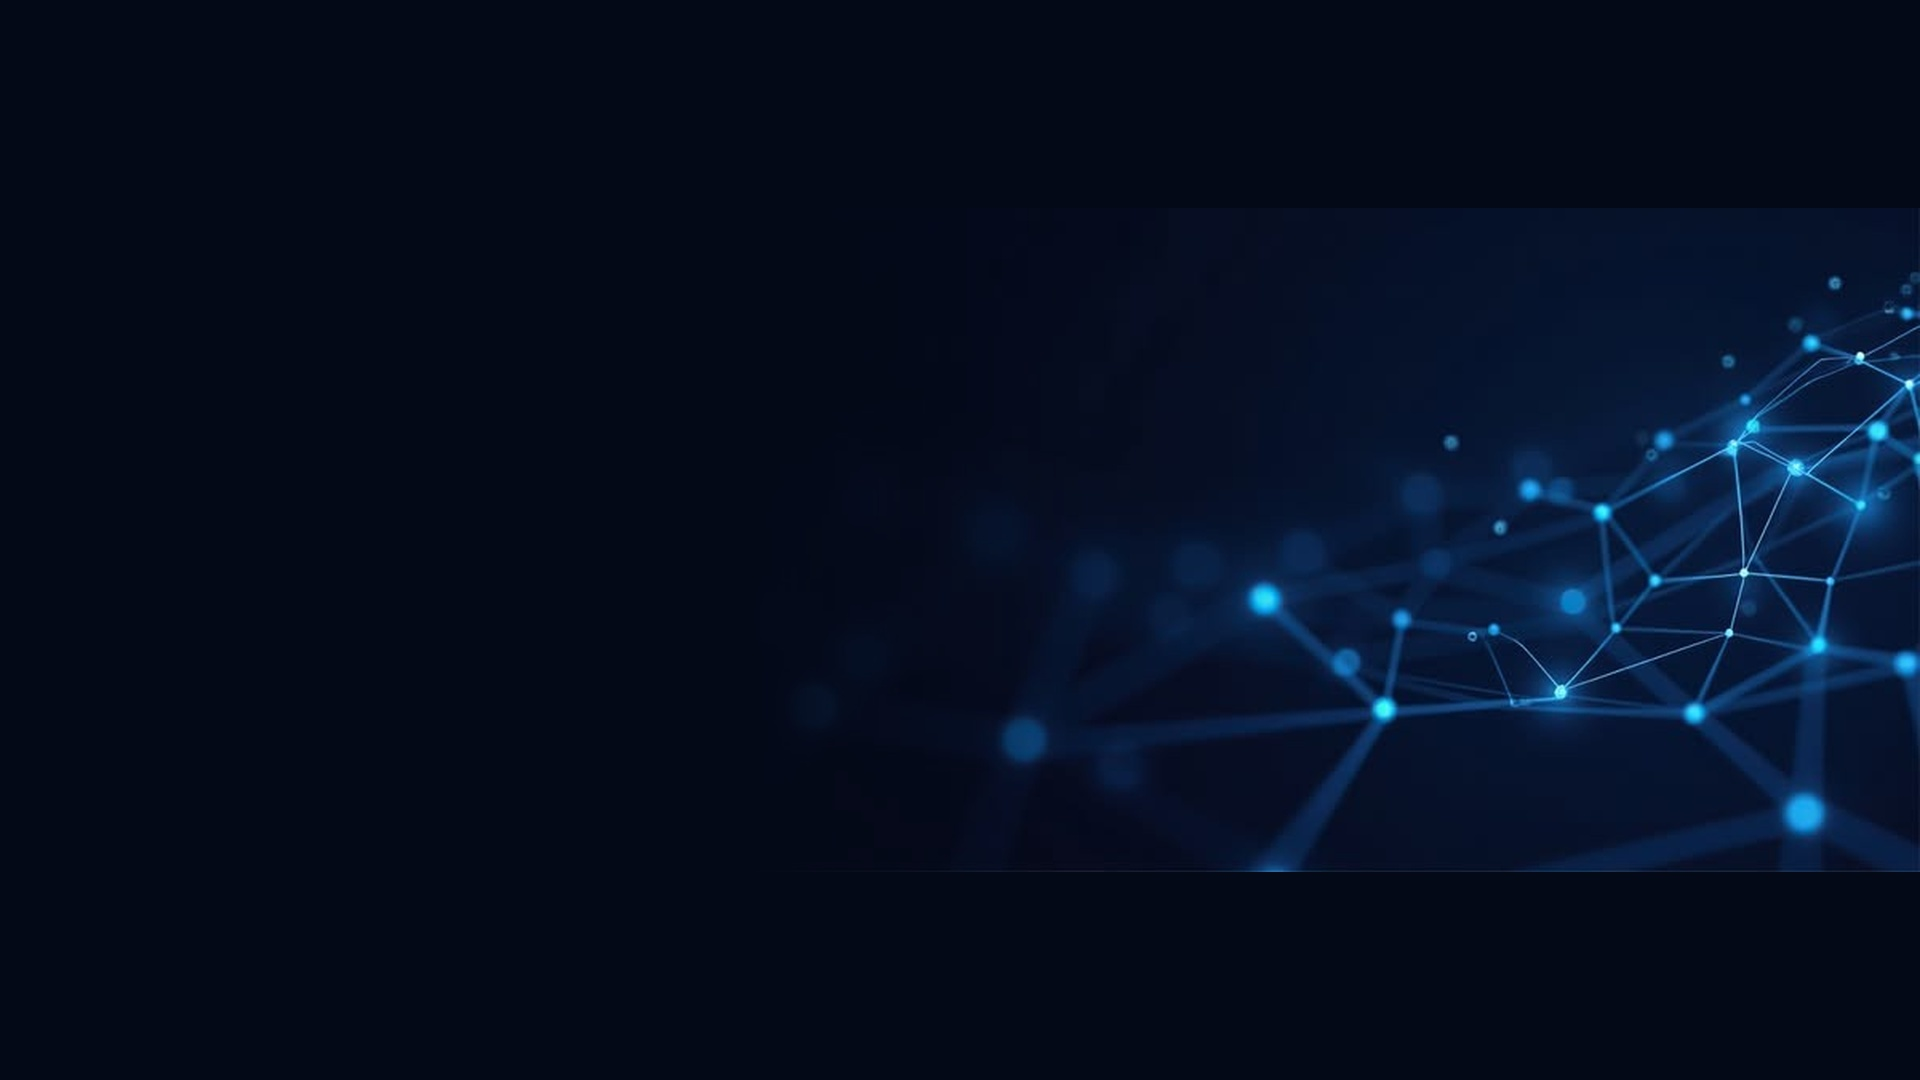
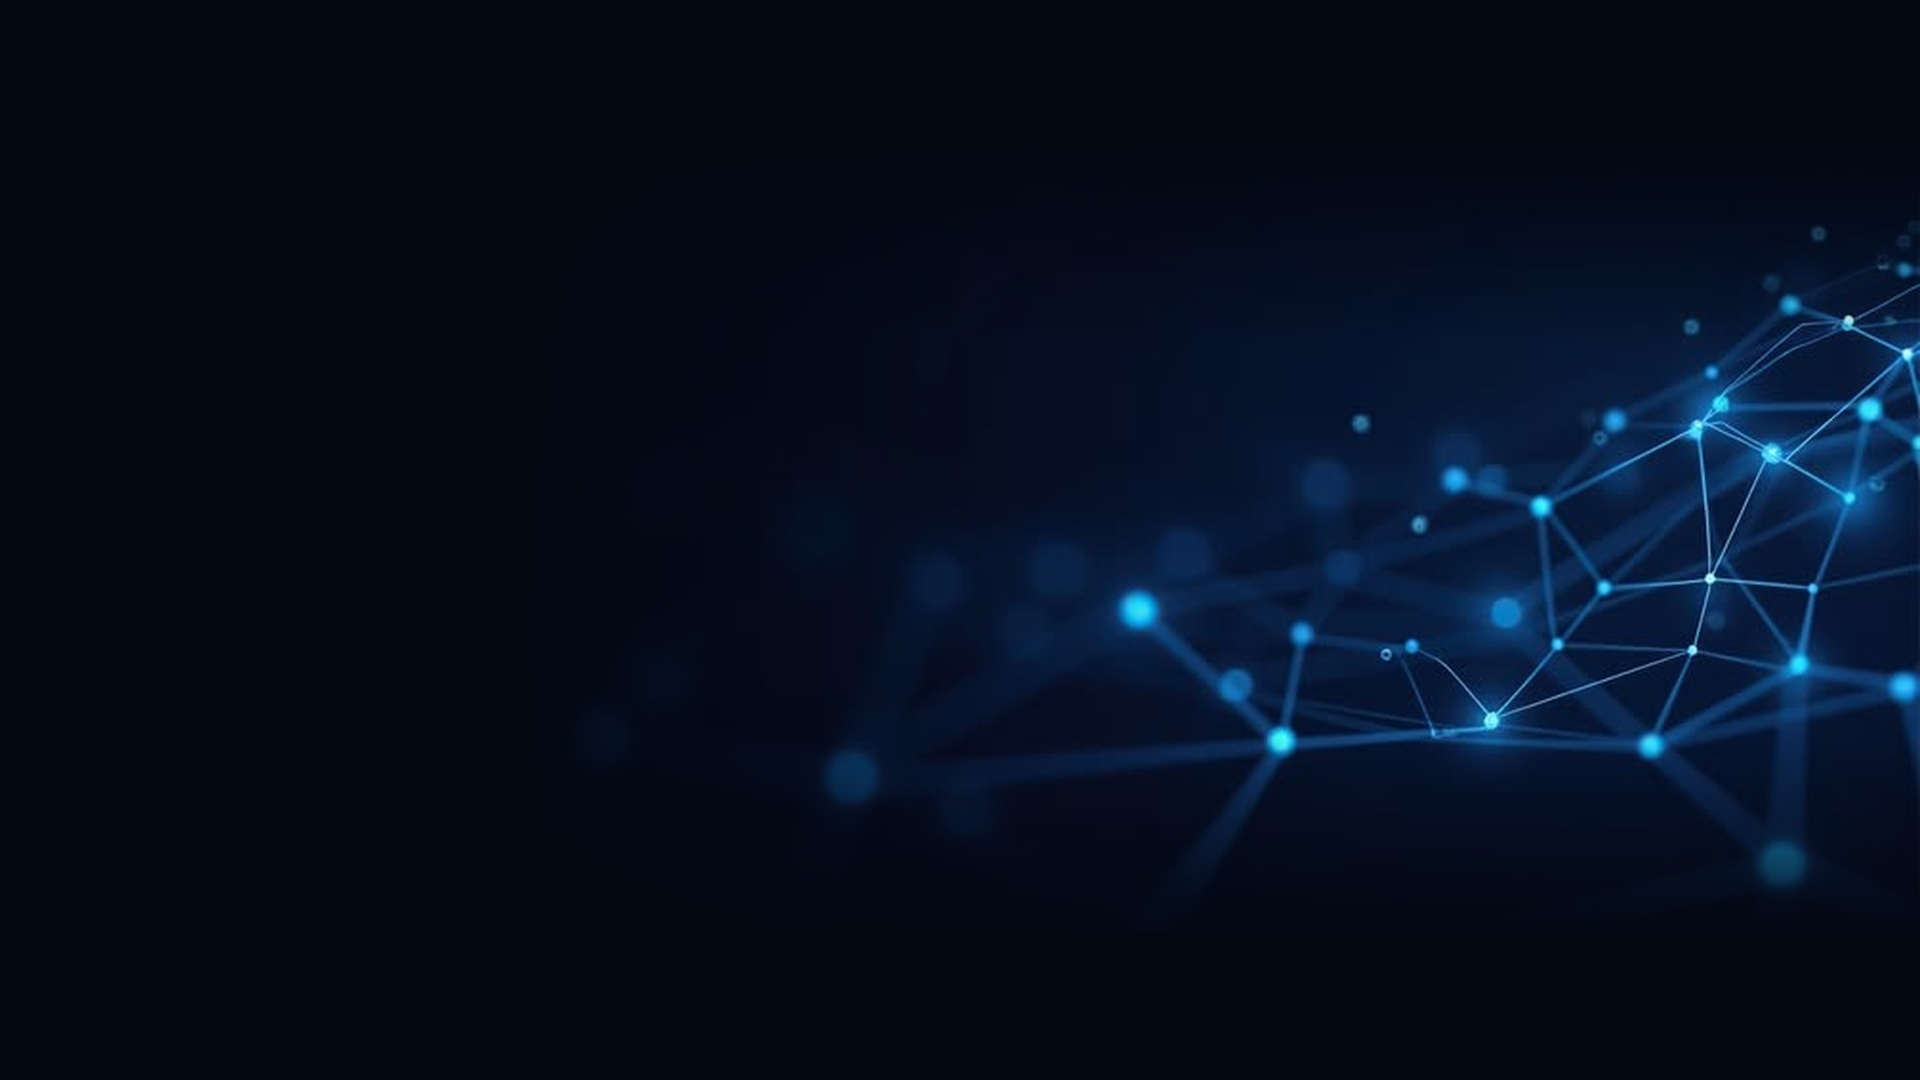
fix(branding): set platform name to 1talent and feather background edges seamlessly
- Removed all '01' and 'Platform' labels; header is strictly '1talent'
- Applied 2D alpha feathering to tech-bg-wide so all edges blend seamlessly into #030712 with zero lines or seams
- Updated copy to 'Welcome to 1talent !'
- Updated button to brand Electric Blue (#0066ff)
- Updated README build log

Changed region(s): [[0.4688, 0.2444, 1.0, 0.825], [0.4062, 0.6722, 0.4688, 0.7639], [0.6875, 0.3667, 0.7188, 0.3972]]

diff --git a/apps/web/src/features/auth/PortalPage.tsx b/apps/web/src/features/auth/PortalPage.tsx
@@ -104,10 +104,10 @@ export default function PortalPage() {
   };
 
   return (
-    <div className="relative min-h-screen w-full bg-[#040918] text-[#d1d5db] font-mono selection:bg-[#0066ff] selection:text-white flex flex-col justify-between overflow-x-hidden">
+    <div className="relative min-h-screen w-full bg-[#030712] text-[#d1d5db] font-mono selection:bg-[#0066ff] selection:text-white flex flex-col justify-between overflow-x-hidden">
       {/* 
         ========================================================================
-        PANORAMIC BLUE TECHNOLOGY BACKGROUND (Wide, Unzoomed, High-Contrast)
+        BLUE TECHNOLOGY BACKGROUND (Seamless Wide Perspective, Zero Seams)
         ========================================================================
       */}
       <div
@@ -117,43 +117,39 @@ export default function PortalPage() {
           filter: 'brightness(1.0) contrast(1.15)',
         }}
       />
-      {/* Gentle left dark gradient to ensure optimal typography contrast for white text */}
-      <div className="fixed inset-0 pointer-events-none z-0 bg-gradient-to-r from-[#040918]/85 via-[#040918]/40 to-transparent" />
+      {/* Subtle left-side dark gradient to guarantee pure text contrast */}
+      <div className="fixed inset-0 pointer-events-none z-0 bg-gradient-to-r from-[#030712]/90 via-[#030712]/50 to-transparent" />
 
       {/* 
         ========================================================================
-        TOP-LEFT: 01 / 1TALENT MONOSPACE HEADER
+        TOP-LEFT: 1TALENT BRAND HEADER (No 01, No Platform)
         ========================================================================
       */}
       <header className="relative z-10 w-full px-8 sm:px-16 pt-8 pb-4">
         <div className="flex items-center gap-2 select-none">
-          <span className="font-mono text-2xl font-black tracking-wider text-white">
-            01
-          </span>
-          <span className="text-gray-500 font-mono text-sm">/</span>
-          <span className="font-mono text-base font-bold tracking-widest text-[#00d4ff]">
-            1TALENT
+          <span className="font-mono text-2xl font-bold tracking-tight text-white">
+            <span className="text-[#00d4ff]">1</span>talent
           </span>
         </div>
       </header>
 
       {/* 
         ========================================================================
-        MAIN SECTION: EXACT 01EDU 2-COLUMN STRUCTURE
+        MAIN SECTION: 2-COLUMN FORMAT
         ========================================================================
       */}
       <main className="relative z-10 flex-1 w-full max-w-7xl mx-auto px-8 sm:px-16 py-6 sm:py-10 flex flex-col lg:flex-row items-start justify-between gap-12 lg:gap-24">
         
-        {/* LEFT COLUMN: 01EDU FORMATTED INSTRUCTIONS */}
+        {/* LEFT COLUMN */}
         <div className="w-full lg:w-7/12 flex flex-col justify-start">
           {/* Main Title */}
           <h1 className="font-mono text-4xl sm:text-5xl lg:text-6xl font-normal tracking-tight text-white mb-8">
-            Welcome to 1Talent !
+            Welcome to 1talent !
           </h1>
 
           {/* Description */}
           <p className="font-mono text-[#9ca3af] text-sm sm:text-base leading-relaxed mb-8 max-w-xl">
-            1Talent Platform is our collaborative coding education platform.
+            1talent is our collaborative coding education platform.
           </p>
 
           {/* 3 Steps */}
@@ -180,11 +176,11 @@ export default function PortalPage() {
           </div>
         </div>
 
-        {/* RIGHT COLUMN: LOGIN FORM (NO CARD BOX, ELECTRIC BLUE BUTTON) */}
+        {/* RIGHT COLUMN: LOGIN FORM (ELECTRIC BLUE BRAND STYLING) */}
         <div className="w-full lg:w-5/12 max-w-md">
           {mode === 'login' ? (
             <div>
-              {/* Header in Electric Blue */}
+              {/* Header */}
               <h2 className="font-mono text-2xl font-normal tracking-wide text-[#38bdf8] mb-6">
                 Log in to resume your works
               </h2>
@@ -252,7 +248,7 @@ export default function PortalPage() {
                   <button
                     type="submit"
                     disabled={loginLoading}
-                    className="w-44 py-2.5 px-6 rounded bg-[#0284c7] hover:bg-[#00d4ff] text-white hover:text-black font-mono text-xs font-bold uppercase tracking-wider transition-all duration-200 disabled:opacity-50 text-center shadow-[0_0_20px_rgba(2,132,199,0.45)] hover:shadow-[0_0_25px_rgba(0,212,255,0.7)]"
+                    className="w-44 py-2.5 px-6 rounded bg-[#0066ff] hover:bg-[#0052cc] text-white font-mono text-xs font-bold uppercase tracking-wider transition-all duration-200 disabled:opacity-50 text-center shadow-[0_0_20px_rgba(0,102,255,0.45)] hover:shadow-[0_0_25px_rgba(0,102,255,0.7)]"
                   >
                     {loginLoading ? 'LOGGING IN...' : 'LOGIN'}
                   </button>
@@ -280,7 +276,7 @@ export default function PortalPage() {
             <div>
               {/* Register Mode */}
               <h2 className="font-mono text-2xl font-normal tracking-wide text-[#00d4ff] mb-6">
-                Register to 1Talent
+                Register to 1talent
               </h2>
 
               {errorMsg && (
@@ -360,7 +356,7 @@ export default function PortalPage() {
                   <button
                     type="submit"
                     disabled={regLoading}
-                    className="w-48 py-2.5 px-6 rounded bg-[#0284c7] hover:bg-[#00d4ff] text-white hover:text-black font-mono text-xs font-bold uppercase tracking-wider transition-all duration-200 disabled:opacity-50 text-center shadow-[0_0_20px_rgba(2,132,199,0.45)] hover:shadow-[0_0_25px_rgba(0,212,255,0.7)]"
+                    className="w-48 py-2.5 px-6 rounded bg-[#0066ff] hover:bg-[#0052cc] text-white font-mono text-xs font-bold uppercase tracking-wider transition-all duration-200 disabled:opacity-50 text-center shadow-[0_0_20px_rgba(0,102,255,0.45)] hover:shadow-[0_0_25px_rgba(0,102,255,0.7)]"
                   >
                     {regLoading ? 'CREATING...' : 'CREATE ACCOUNT'}
                   </button>
@@ -414,7 +410,7 @@ export default function PortalPage() {
                   alert('Reset link sent to your registered email address.');
                   setForgotModalOpen(false);
                 }}
-                className="px-4 py-1.5 rounded bg-[#0284c7] text-white font-medium hover:bg-[#00d4ff] hover:text-black transition-colors"
+                className="px-4 py-1.5 rounded bg-[#0066ff] text-white font-medium hover:bg-[#0052cc] transition-colors"
               >
                 Send Reset Link
               </button>
@@ -425,7 +421,7 @@ export default function PortalPage() {
 
       {/* Discreet bottom footer */}
       <footer className="relative z-10 w-full px-8 sm:px-16 py-4 text-xs font-mono text-[#64748b] flex justify-between items-center">
-        <span>1Talent Platform</span>
+        <span>1talent</span>
         <span>Campus: Learn2Earn</span>
       </footer>
     </div>

diff --git a/README.md b/README.md
@@ -297,12 +297,12 @@ This section is updated with every significant commit.
 - Health check endpoint: `GET /health`
 
 **Student portal (React + TypeScript + Tailwind)**
-- **1Talent Entry Portal (`PortalPage.tsx`)**:
-  - Wide panoramic blue technology network background (`tech-bg-wide.jpg`, 1920x1080) rendered without distortion or excessive zoom
+- **1talent Entry Portal (`PortalPage.tsx`)**:
+  - Seamless feathered blue technology network background (`tech-bg-wide.jpg`, 1920x1080) with 0 seams, zero edge cutoffs, and wide unzoomed perspective
+  - Clean brand header: `1talent` (all references to "01" and "Platform" removed)
   - 01Edu-accurate 2-column structure matching `learn.reboot01.com`
-  - Left side: "Welcome to 1Talent !", 3-step onboarding guide, contact link
-  - Right side: "Log in to resume your works" with frameless minimal inputs, eye toggle, and electric blue brand action button (`#0284c7` / `#00d4ff`)
-  - Frameless design sitting directly on the canvas without card enclosures
+  - Left side: "Welcome to 1talent !", 3-step onboarding guide, contact link
+  - Right side: "Log in to resume your works" with frameless minimal inputs, eye toggle, and electric blue brand action button (`#0066ff`)
   - Seamless inline switch to Registration mode ("New here? Join the fun! REGISTER NOW!")
 - Dashboard: personal XP/level stats + campus overview (staff only) + available projects
 - Projects page: list all available projects
